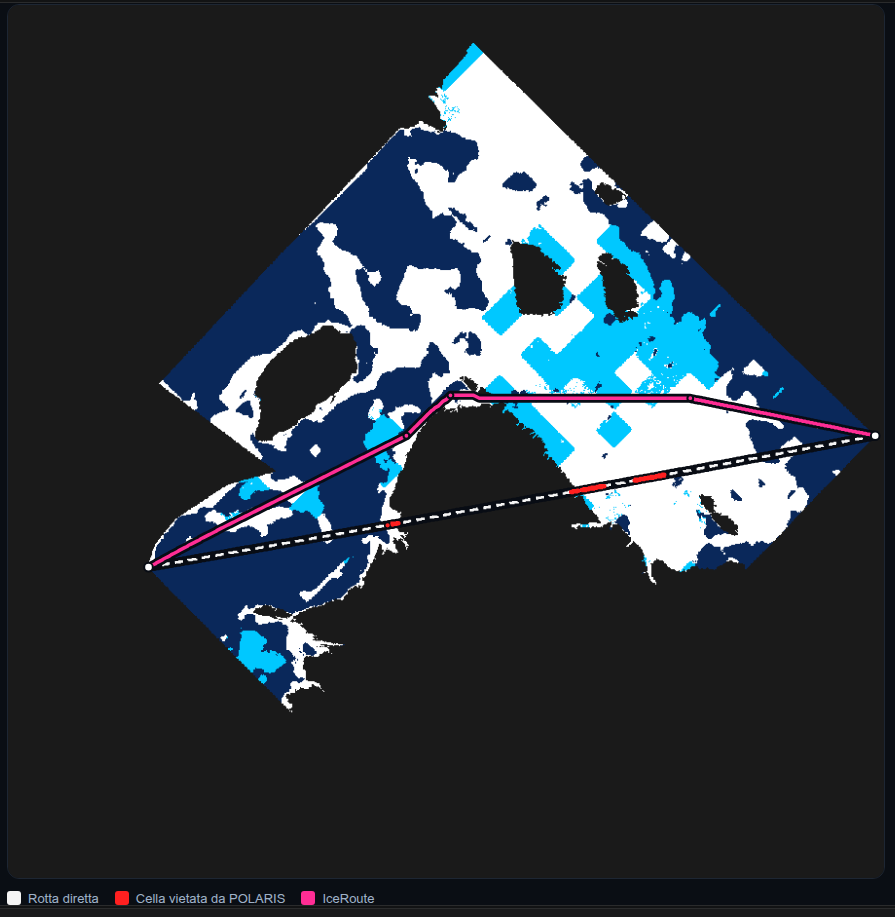
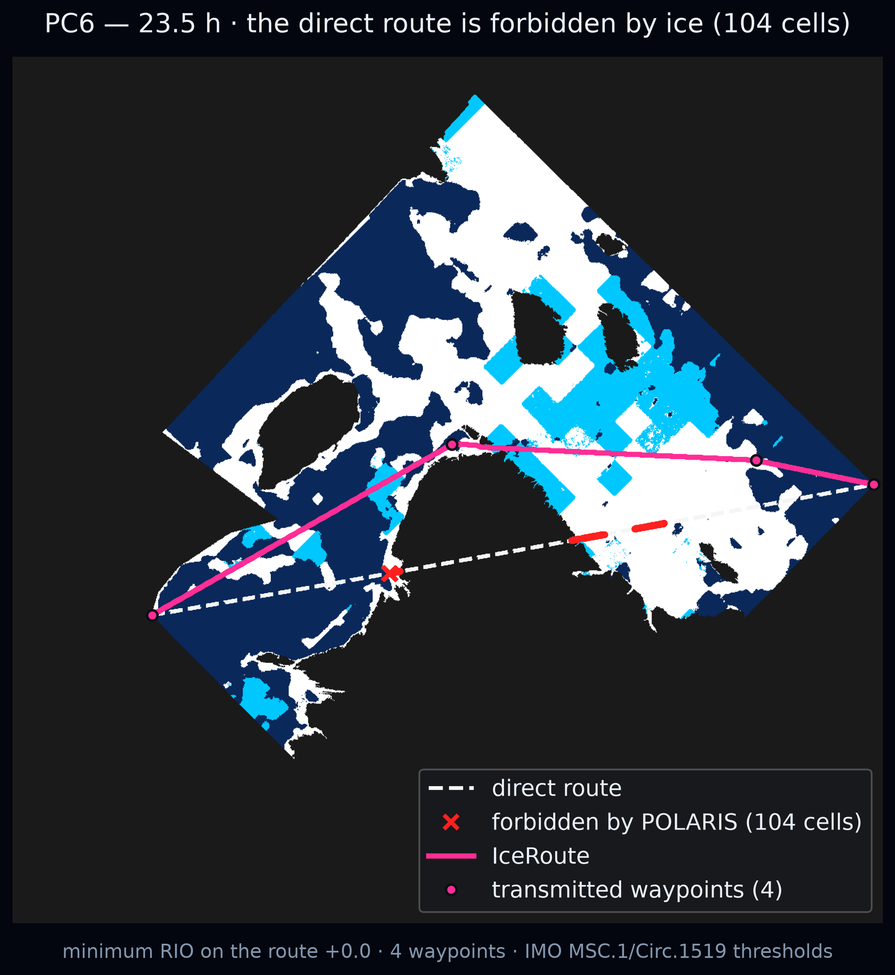
IceRoute: i numeri misurati al posto delle stime iniziali
La pagina e la scheda in homepage riportavano le stime del prototipo di
giugno (200:1, pacchetto < 4 KB, 5 classi, 12U), che il codice ha poi
misurato e corretto: riduzione del downlink 439:1, pacchetto 148 KB
(rotta da sola 431 byte), 3 classi, modello INT8 da 2 MB, mIoU 0.532 sul
test set ufficiale, errore di calibrazione da 16,4 a 3,9 %.

Il testo spiega cosa fa il sistema e cosa ho scritto io dopo l'hackathon.
La figura della rotta è quella nuova, in inglese.

Changed region(s): [[0.0302, 0.0, 0.9955, 0.7939], [0.0, 0.7939, 0.9955, 1.0]]

diff --git a/iceroute/index.html b/iceroute/index.html
@@ -4,13 +4,13 @@
 <meta charset="utf-8">
 <meta name="viewport" content="width=device-width, initial-scale=1, viewport-fit=cover">
 <title>IceRoute · Federico Fassio</title>
-<meta name="description" content="IceRoute: sea ice segmentation onboard a CubeSat, with the Arctic route computed in orbit. 1st at the EO Makerspace Hackathon 2026, ESA Φ-lab. Project manager: Federico Fassio, Space Eagle APS.">
+<meta name="description" content="IceRoute: sea ice segmentation onboard a CubeSat and the Arctic route computed in orbit. 1st at the EO Makerspace Hackathon 2026, ESA Φ-lab. Open-source software by Federico Fassio: 2 MB INT8 U-Net, POLARIS routing, 439:1 downlink reduction.">
 <meta name="author" content="Federico Fassio">
 <link rel="canonical" href="https://federicofassio.it/iceroute/">
 <meta property="og:type" content="article">
 <meta property="og:site_name" content="Federico Fassio">
 <meta property="og:title" content="IceRoute · Federico Fassio">
-<meta property="og:description" content="IceRoute: sea ice segmentation onboard a CubeSat, with the Arctic route computed in orbit. 1st at the EO Makerspace Hackathon 2026, ESA Φ-lab. Project manager: Federico Fassio, Space Eagle APS.">
+<meta property="og:description" content="IceRoute: sea ice segmentation onboard a CubeSat and the Arctic route computed in orbit. 1st at the EO Makerspace Hackathon 2026, ESA Φ-lab. Open-source software by Federico Fassio: 2 MB INT8 U-Net, POLARIS routing, 439:1 downlink reduction.">
 <meta property="og:url" content="https://federicofassio.it/iceroute/">
 <meta property="og:locale" content="en_GB">
 <meta property="og:locale:alternate" content="it_IT">
@@ -21,7 +21,7 @@
 <meta property="og:image:alt" content="IceRoute console: SAR scene, ice mask, route and downlink budget">
 <meta name="twitter:card" content="summary_large_image">
 <meta name="twitter:title" content="IceRoute · Federico Fassio">
-<meta name="twitter:description" content="IceRoute: sea ice segmentation onboard a CubeSat, with the Arctic route computed in orbit. 1st at the EO Makerspace Hackathon 2026, ESA Φ-lab. Project manager: Federico Fassio, Space Eagle APS.">
+<meta name="twitter:description" content="IceRoute: sea ice segmentation onboard a CubeSat and the Arctic route computed in orbit. 1st at the EO Makerspace Hackathon 2026, ESA Φ-lab. Open-source software by Federico Fassio: 2 MB INT8 U-Net, POLARIS routing, 439:1 downlink reduction.">
 <meta name="twitter:image" content="https://federicofassio.it/img/iceroute-console.jpg">
 <meta name="twitter:image:alt" content="IceRoute console: SAR scene, ice mask, route and downlink budget">
 <meta name="theme-color" content="#03060e">
@@ -89,30 +89,50 @@ try{
     <p class="crumb"><a href="../#projects"><span data-l="en">All projects</span><span data-l="it">Tutti i progetti</span></a></p>
     <article class="flag" id="iceroute">
       <div class="flag__text">
-        <p class="meta">Project manager · Space Eagle APS</p>
+        <p class="meta"><span data-l="en">Project manager and software author · Space Eagle APS</span><span data-l="it">Project manager e autore del software · Space Eagle APS</span></p>
         <h1>IceRoute</h1>
         <p class="deck" data-l="en">Sea ice segmentation onboard the satellite.</p>
         <p class="deck" data-l="it">Segmentazione del ghiaccio marino a bordo del satellite.</p>
         <p data-l="en">
-          Polar charts reach a ship's bridge 12 to 24&nbsp;hours late, and by then the ice has moved.
-          In IceRoute an INT8 quantized U-Net runs on Sentinel-1 C-band SAR imagery inside a GPU@SAT
-          FPGA, produces the ice mask, computes the optimal Arctic route within POLARIS operational
-          limits, and downlinks mask and route instead of the raw scene.
+          Ice charts reach a ship's bridge hours after the satellite saw the ice, and the fastest
+          service today still processes the scene on the ground. IceRoute moves that step into
+          orbit: a 2&nbsp;MB INT8 U-Net reads a Sentinel-1 radar scene and maps the ice, the IMO
+          POLARIS rules turn the map into where a given ship may go and how fast, and A* finds the
+          fastest legal route. The satellite sends down the verdict, 148&nbsp;KB of ice map and
+          route, instead of 55&nbsp;MB of radar.
         </p>
         <p data-l="it">
-          Le carte polari arrivano in plancia con 12-24&nbsp;ore di ritardo, e nel frattempo il ghiaccio
-          si è mosso. In IceRoute una U-Net quantizzata INT8 gira sulle immagini SAR in banda C di
-          Sentinel-1 dentro un FPGA GPU@SAT, produce la maschera del ghiaccio, calcola la rotta
-          artica ottimale entro i limiti operativi POLARIS e manda a terra maschera e rotta invece
-          della scena grezza.
+          Le carte del ghiaccio arrivano in plancia ore dopo che il satellite ha visto il ghiaccio, e
+          il servizio più rapido di oggi elabora ancora la scena a terra. IceRoute porta quel passo
+          in orbita: una U-Net INT8 da 2&nbsp;MB legge una scena radar Sentinel-1 e mappa il
+          ghiaccio, le regole POLARIS dell'IMO trasformano la mappa in dove una certa nave può
+          andare e a che velocità, e A* trova la rotta lecita più veloce. Il satellite manda a terra
+          il verdetto, 148&nbsp;KB di mappa e rotta, invece di 55&nbsp;MB di radar.
+        </p>
+        <p data-l="en">
+          The concept won the EO Makerspace Hackathon with the Space Eagle team. After it I wrote
+          the whole software on my own: data pipeline on the AI4Arctic dataset,
+          training, ONNX export and INT8 quantization, probability calibration, POLARIS routing,
+          evaluation on the official test set and an offline console. About 25,000 lines of
+          Python, more than 600 tests, and every engineering decision written down with the
+          measurement that settled it.
+        </p>
+        <p data-l="it">
+          Il concept ha vinto l'EO Makerspace Hackathon con il team Space Eagle. Dopo ho scritto da
+          solo tutto il software: pipeline dei dati sul dataset AI4Arctic,
+          addestramento, export ONNX e quantizzazione INT8, calibrazione delle probabilità, rotte
+          POLARIS, valutazione sul test set ufficiale e una console che funziona offline. Circa
+          25.000 righe di Python, più di 600 test, e ogni scelta tecnica scritta con la misura che
+          l'ha decisa.
         </p>
         <p class="prize"><b><span data-l="en">1st</span><span data-l="it">1º</span></b><span>EO Makerspace Hackathon 2026, ESA <span class="nw">Φ-lab</span></span></p>
         <dl class="sheet">
-          <div><dt><span data-l="en">Onboard data reduction</span><span data-l="it">Riduzione dei dati a bordo</span></dt><dd>200 : 1</dd></div>
-          <div><dt><span data-l="en">Transmitted packet</span><span data-l="it">Pacchetto trasmesso</span></dt><dd>&lt; 4 KB</dd></div>
-          <div><dt><span data-l="en">Ice classes</span><span data-l="it">Classi di ghiaccio</span></dt><dd>5</dd></div>
-          <div><dt><span data-l="en">Altitude</span><span data-l="it">Quota</span></dt><dd>550 km</dd></div>
-          <div><dt><span data-l="en">Platform</span><span data-l="it">Piattaforma</span></dt><dd>12U CubeSat, Zynq&nbsp;UltraScale+</dd></div>
+          <div><dt><span data-l="en">Segmentation, official test set</span><span data-l="it">Segmentazione, test set ufficiale</span></dt><dd>mIoU 0.532</dd></div>
+          <div><dt><span data-l="en">Ice / water accuracy</span><span data-l="it">Accuratezza ghiaccio / acqua</span></dt><dd>90.6&nbsp;%</dd></div>
+          <div><dt><span data-l="en">Model on board</span><span data-l="it">Modello a bordo</span></dt><dd><span data-l="en">2.05&nbsp;MB INT8, 1.96&nbsp;M parameters</span><span data-l="it">2,05&nbsp;MB INT8, 1,96&nbsp;M parametri</span></dd></div>
+          <div><dt><span data-l="en">Downlink reduction, measured</span><span data-l="it">Riduzione del downlink, misurata</span></dt><dd>439 : 1</dd></div>
+          <div><dt><span data-l="en">Packet sent to the ship</span><span data-l="it">Pacchetto inviato alla nave</span></dt><dd><span data-l="en">148&nbsp;KB, route alone 431&nbsp;bytes</span><span data-l="it">148&nbsp;KB, la rotta da sola 431&nbsp;byte</span></dd></div>
+          <div><dt><span data-l="en">Calibration error (ECE)</span><span data-l="it">Errore di calibrazione (ECE)</span></dt><dd>16.4 → 3.9&nbsp;%</dd></div>
         </dl>
         <p class="links"><a href="https://www.spaceeagle.it">spaceeagle.it</a></p>
       </div>
@@ -135,9 +155,9 @@ try{
     <div class="gal">
       <div class="photos photos--fit">
         <figure>
-          <span class="frame"><img src="../img/iceroute-rotta.png" width="895" height="917" alt="The ice mask with the direct route (dashed) and the IceRoute route" data-alt-it="La maschera del ghiaccio con la rotta diretta (tratteggiata) e la rotta di IceRoute" loading="lazy"></span>
-          <figcaption data-l="en">The ice mask with the direct route (dashed) and the IceRoute route</figcaption>
-          <figcaption data-l="it">La maschera del ghiaccio con la rotta diretta (tratteggiata) e la rotta di IceRoute</figcaption>
+          <span class="frame"><img src="../img/iceroute-rotta.png" width="895" height="975" alt="The ice map for a PC6 ship: the direct route (dashed) crosses ice POLARIS forbids; the IceRoute route goes around it" data-alt-it="La maschera del ghiaccio con la rotta diretta (tratteggiata) e la rotta di IceRoute" loading="lazy"></span>
+          <figcaption data-l="en">A PC6 ship: the direct route (dashed) crosses ice POLARIS forbids. Only the four waypoints are sent down.</figcaption>
+          <figcaption data-l="it">Una nave PC6: la rotta diretta (tratteggiata) attraversa ghiaccio che POLARIS vieta. A terra scendono solo i quattro waypoint.</figcaption>
         </figure>
         <figure>
           <span class="frame"><img src="../img/teenventures-iceroute.jpg" width="1396" height="785" alt="IceRoute at TeenVentures Demo Night" data-alt-it="IceRoute alla TeenVentures Demo Night" loading="lazy"></span>

diff --git a/index.html b/index.html
@@ -221,15 +221,15 @@ try{
       <li id="iceroute" class="is-feat"><a class="pitem" href="iceroute/">
         <span class="frame"><video data-lazy data-anim="img/iceroute-console.avif" muted loop playsinline preload="none" width="1280" height="748" poster="img/iceroute-console-poster.jpg"><source src="img/iceroute-console.mp4" type="video/mp4"></video></span>
         <div class="pitem__text">
-          <p class="pitem__meta">Project manager · Space Eagle APS</p>
+          <p class="pitem__meta"><span data-l="en">Project manager and software author · Space Eagle APS</span><span data-l="it">Project manager e autore del software · Space Eagle APS</span></p>
           <h3 class="pitem__name">IceRoute</h3>
           <p class="pitem__deck" data-l="en">Sea ice segmentation onboard the satellite, and the Arctic route computed in orbit.</p>
           <p class="pitem__deck" data-l="it">Segmentazione del ghiaccio marino a bordo del satellite, e la rotta artica calcolata in orbita.</p>
           <p class="pitem__prize"><b><span data-l="en">1st</span><span data-l="it">1º</span></b><span>EO Makerspace Hackathon 2026, ESA <span class="nw">Φ-lab</span></span></p>
           <dl class="sheet">
-            <div><dt><span data-l="en">Onboard data reduction</span><span data-l="it">Riduzione dei dati a bordo</span></dt><dd>200 : 1</dd></div>
-            <div><dt><span data-l="en">Transmitted packet</span><span data-l="it">Pacchetto trasmesso</span></dt><dd>&lt; 4 KB</dd></div>
-            <div><dt><span data-l="en">Platform</span><span data-l="it">Piattaforma</span></dt><dd>12U CubeSat, Zynq&nbsp;UltraScale+</dd></div>
+            <div><dt><span data-l="en">Downlink reduction, measured</span><span data-l="it">Riduzione del downlink, misurata</span></dt><dd>439 : 1</dd></div>
+            <div><dt><span data-l="en">Packet sent to the ship</span><span data-l="it">Pacchetto inviato alla nave</span></dt><dd>148 KB</dd></div>
+            <div><dt><span data-l="en">Model on board</span><span data-l="it">Modello a bordo</span></dt><dd>2&nbsp;MB INT8</dd></div>
           </dl>
           <span class="pitem__go"><span data-l="en">Open the project</span><span data-l="it">Apri il progetto</span></span>
         </div>
